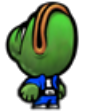
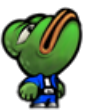
Refactoring and animation

diff --git a/src/app/game/game.page.ts b/src/app/game/game.page.ts
@@ -3,17 +3,20 @@ import 'phaser';
 
 let game:any;
 const deviceParameters = {
-  width: 800,
+  width: 1200,
   height: 600
 }
-const VELOCITY:number = 200;
-const FLAP_VELOCITY:number = 150;
+const VELOCITY:number = 300;
+
+const FLAP_VELOCITY:number = 199;
 const PIPES_TO_RENDER = 128;
 const _initialPepePosition = {
   x: deviceParameters.width * 0.1,
   y: deviceParameters.height / 2,
 }
-const pipeVerticalDistanceRange = [280, 450];
+const pipeVerticalDistanceRange = [100, 250];
+let pipeHorizontalDistance: number = 0;
+
 
 @Component({
   selector: 'app-game',
@@ -29,7 +32,7 @@ export class GamePage implements OnInit {
     physics: {
       default: 'arcade',
       arcade: {
-        debug: false,
+        debug: true,
       }
     },
     scene: {
@@ -50,23 +53,22 @@ export class GamePage implements OnInit {
   pipeVerticalPosition:number | undefined;
   upperPipe: any;
   lowerPipe:any;
-  
+
   constructor() {
     game = new Phaser.Game(this.config);
   }
 
   preload () {
     this.load.image('sky', './assets/sky.png');
-
     this.load.image('pepeup', './assets/pepeup.png');
+    this.load.image('pepeup_fast', './assets/pepeup_fast.png');
     this.load.image('pepedown', './assets/pepedown.png');
-
+    this.load.image('pepedown_slow', './assets/pepedown_slow.png');
     this.load.image('pipe', './assets/pipe.png');
   }
 
   create () {
     this.add.image(0, 0, 'sky').setOrigin(0);
-
     this.pepe = this.physics.add.sprite(_initialPepePosition.x, _initialPepePosition.y, 'pepedown').setOrigin(0);
     this.pepe.body.gravity.y = 400;
     this.pepe.displayWidth = 42;
@@ -75,19 +77,15 @@ export class GamePage implements OnInit {
     this.input.on('pointerdownoutside', () => {
       flap(this.pepe.body.velocity);
     });
-    let pipeHorizontalDistance:number = 0;
+
     for (let i = 0; i < PIPES_TO_RENDER; i++) {
-      this.pipeVerticalDistance = Phaser.Math.Between(pipeVerticalDistanceRange[0], pipeVerticalDistanceRange[1]);
-      this.pipeVerticalPosition = Phaser.Math.Between(0 + 20, game.config.height - 20 - this.pipeVerticalDistance);
-      this.upperPipe = this.physics.add.sprite(pipeHorizontalDistance, this.pipeVerticalPosition, 'pipe').setOrigin(0, 1);
-      this.lowerPipe = this.physics.add.sprite(this.upperPipe.body.x+30, this.upperPipe.body.y + this.pipeVerticalDistance,  'pipe').setOrigin(0, 0);
-      this.upperPipe.body.velocity.x = -200;
-      this.lowerPipe.body.velocity.x = -200;
-      pipeHorizontalDistance = pipeHorizontalDistance + 400;
+      const upperPipe = this.physics.add.sprite(0, 0, 'pipe').setOrigin(0, 1);
+      const lowerPipe = this.physics.add.sprite(0, 0,  'pipe').setOrigin(0, 0);
+      placePipe(upperPipe, lowerPipe);
     }
   }
 
-  update(){
+  update(timer){
     if(this.pepe.body.position.y >= game.config.height-this.pepe.displayHeight){
       this.pepe.body.velocity.y = -VELOCITY;
       gameOver(this.pepe);
@@ -96,11 +94,18 @@ export class GamePage implements OnInit {
       gameOver(this.pepe);
     }
 
-    if(this.pepe.body.velocity.y >= 0){
-      this.pepe.setTexture('pepedown');
+    if(this.pepe.body.velocity.y >= 0 || this.pepe.body.velocity.y > -25){
+      this.pepe.setTexture('pepedown_slow');
+      if(this.pepe.body.velocity.y > 180){
+        this.pepe.setTexture('pepedown');
+      }
     }else{
       this.pepe.setTexture('pepeup');
+      if(this.pepe.body.velocity.y < -60){
+        this.pepe.setTexture('pepeup_fast');
+      }
     }
+
   }
   ngOnInit() {}
 }
@@ -113,4 +118,24 @@ function gameOver(player:any):void {
 
 function flap(playerVelocity:any):void{
   playerVelocity.y =- FLAP_VELOCITY;
+}
+
+function placePipe(uPipe:any, lPipe:any){
+  pipeHorizontalDistance += 400;
+
+  let pipeVerticalDistance = Phaser.Math.Between(pipeVerticalDistanceRange[0], pipeVerticalDistanceRange[1]);
+  let pipeVerticalPosition = Phaser.Math.Between(0 + 20, game.config.height - 20 - pipeVerticalDistance);
+
+  uPipe.x = pipeHorizontalDistance;
+  uPipe.y = pipeVerticalPosition;
+
+  lPipe.x = uPipe.x;
+  lPipe.y = uPipe.y + pipeVerticalDistance;
+
+  uPipe.body.velocity.x = -300;
+  lPipe.body.velocity.x = -300;
+
+  console.log(pipeHorizontalDistance);
+
+
 }
